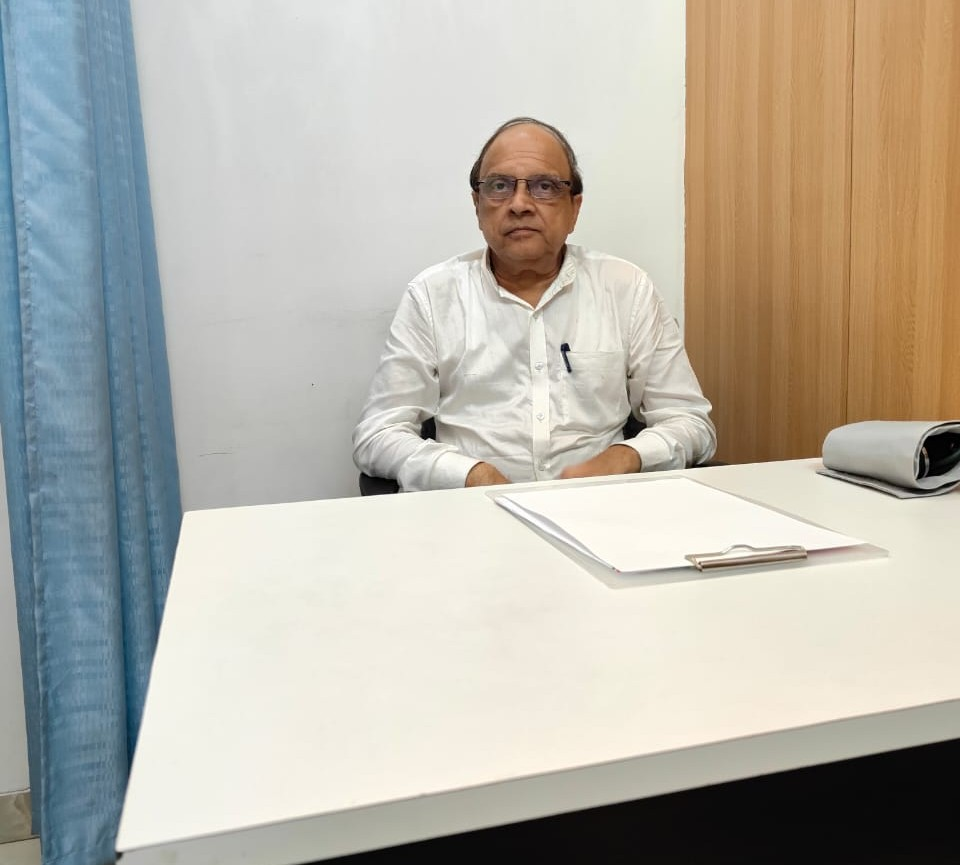
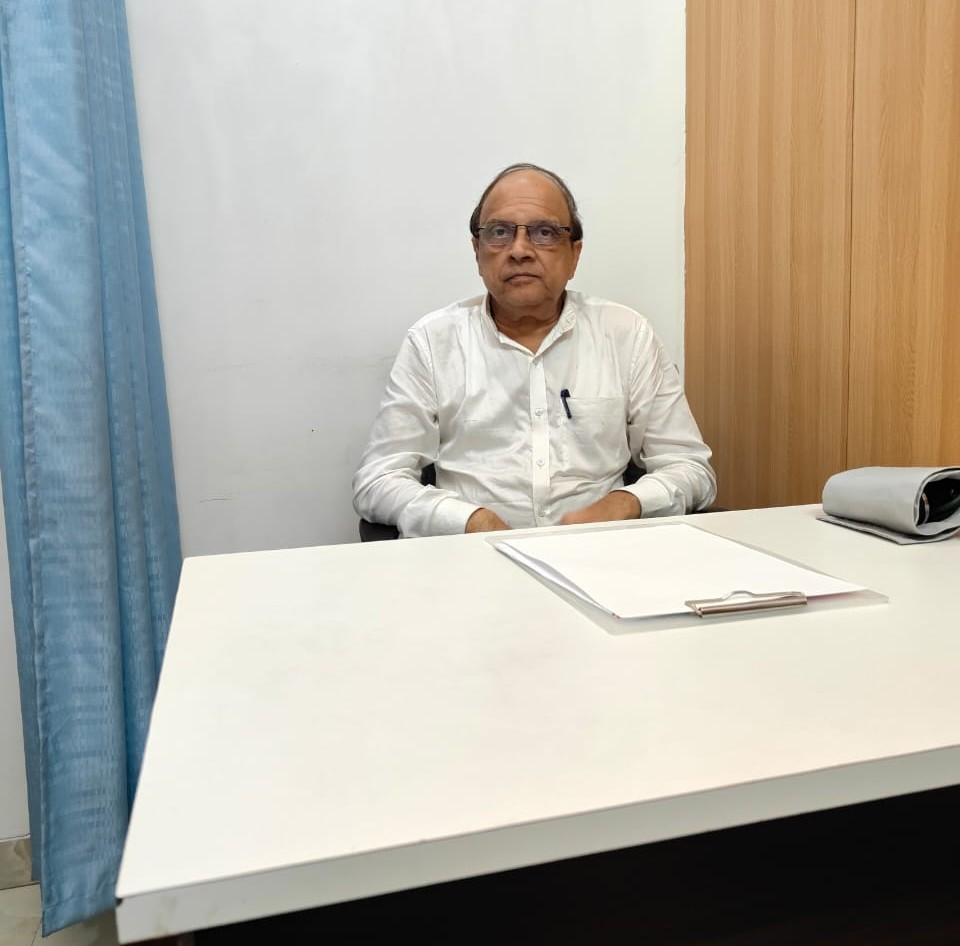
update pics for drs

diff --git a/index.html b/index.html
@@ -129,7 +129,7 @@
 
         <div class="section-title">
           <h2>About Us</h2>
-          <p>PR Diagnostics and Polyclinic was started by Dr. Anand Agarwal MBBS, Ex PGI Chandigarh in September 2021 and its present location was inaugurated on 11th May 2022. In his more than 25 years of practice he saw first hand what difficulties were being faced by patients and their familes and as such he vowed to create a new breed of integrated healing and diagnostics centers with: </p>
+          <p>PR Diagnostics and Polyclinic was started by Dr. Anand Agarwal MBBS, Ex PGI Chandigarh in September 2021 and its present location  in K.B.Sarani was inaugurated on 11th May 2022. In his more than 25 years of practice he saw first hand what difficulties were being faced by patients and their familes and as such he vowed to create a new breed of integrated healing and diagnostics centers with: </p>
         </div>
 
         <div class="row">
@@ -140,6 +140,8 @@
             <ul>
               <li><i class="bi bi-check-circle"></i>Multispeciality Doctor Clinic</li>
               <p>Our in house clinic is administered by some of the best Cardiologists, Oncologists, Urologists, Nephrologists, Gynaecologists, Dermatologists, Pediatricians, Dieticians, General Physicians and General Surgeons of Kolkata. </p>
+              <li><i class="bi bi-check-circle"></i>World Class NABL accredited laboratory</li>
+              <p>All diagnostics tests are carried out at our in house NABL certified laboratory.</p>
               <li><i class="bi bi-check-circle"></i>Home Collection Service</li>
               <p>We have dedicated staff members for drawing and collecting blood and other samples from patient's homes. We make sure to equip our staff with all resources and personal protective equipment neccessary to take samples.</p>
               <li><i class="bi bi-check-circle"></i>Ambulance Service</li>
@@ -198,7 +200,7 @@
           <div class="col-lg-3 col-md-6 d-md-flex align-items-md-stretch">
             <div class="count-box">
               <i class="fas fa-award"></i>
-              <span data-purecounter-start="0" data-purecounter-end="150" data-purecounter-duration="1" class="purecounter"></span>
+              <span data-purecounter-start="0" data-purecounter-end="5" data-purecounter-duration="1" class="purecounter"></span>
               <p><h4>Certifications</h4> </p>
             </div>
           </div>
@@ -552,7 +554,7 @@
           <div class="col-lg-3 col-md-6 d-flex align-items-stretch">
             <div class="member" data-aos="fade-up" data-aos-delay="100">
               <div class="member-img">
-                <img src="" class="img-fluid" alt="">
+                <img src="assets/img/dr-mridula-purkayastha-pr-diagnostics.webp" class="img-fluid" alt="">
                 <div class="social">
                   <a href=""><i class="bi bi-twitter"></i></a>
                   <a href=""><i class="bi bi-facebook"></i></a>
@@ -561,8 +563,27 @@
                 </div>
               </div>
               <div class="member-info">
-                <h4>DR. SWARNALI PAL</h4>
+                <h4>DR. MRIDULA PURKAYASTHA</h4>
                 <span>GYNAECOLOGIST</span>
+              </div>
+            </div>
+          </div>
+
+
+          <div class="col-lg-3 col-md-6 d-flex align-items-stretch">
+            <div class="member" data-aos="fade-up" data-aos-delay="200">
+              <div class="member-img">
+                <img src="assets/img/pr-diagnostics-13.webp" class="img-fluid" alt="">
+                <div class="social">
+                  <a href=""><i class="bi bi-twitter"></i></a>
+                  <a href=""><i class="bi bi-facebook"></i></a>
+                  <a href=""><i class="bi bi-instagram"></i></a>
+                  <a href=""><i class="bi bi-linkedin"></i></a>
+                </div>
+              </div>
+              <div class="member-info">
+                <h4>DR. ANAND AGARWAL</h4>
+                <span>General Medicine</span>
               </div>
             </div>
           </div>
@@ -570,7 +591,7 @@
           <div class="col-lg-3 col-md-6 d-flex align-items-stretch">
             <div class="member" data-aos="fade-up" data-aos-delay="200">
               <div class="member-img">
-                <img src="" class="img-fluid" alt="">
+                <img src="assets/img/dr-rakesh-jhalani-pr-diagnostics.webp" class="img-fluid" alt="">
                 <div class="social">
                   <a href=""><i class="bi bi-twitter"></i></a>
                   <a href=""><i class="bi bi-facebook"></i></a>
@@ -579,8 +600,8 @@
                 </div>
               </div>
               <div class="member-info">
-                <h4>DR. AANCHAL AGARWAL</h4>
-                <span>GYNAECOLOGIST</span>
+                <h4>DR. RAKESH JHALANI</h4>
+                <span>Orthopedist</span>
               </div>
             </div>
           </div>
@@ -588,7 +609,7 @@
           <div class="col-lg-3 col-md-6 d-flex align-items-stretch">
             <div class="member" data-aos="fade-up" data-aos-delay="300">
               <div class="member-img">
-                <img src="" class="img-fluid" alt="">
+                <img src="assets/img/dr-ankit-goel-pr-diagnostics.webp" class="img-fluid" alt="">
                 <div class="social">
                   <a href=""><i class="bi bi-twitter"></i></a>
                   <a href=""><i class="bi bi-facebook"></i></a>
@@ -597,7 +618,7 @@
                 </div>
               </div>
               <div class="member-info">
-                <h4>DR. ANKIT GOYAL</h4>
+                <h4>DR. ANKIT GOEL</h4>
                 <span>PAEDIATRICIAN</span>
               </div>
             </div>
@@ -606,7 +627,7 @@
           <div class="col-lg-3 col-md-6 d-flex align-items-stretch">
             <div class="member" data-aos="fade-up" data-aos-delay="400">
               <div class="member-img">
-                <img src="" class="img-fluid" alt="">
+                <img src="assets/img/dr-baisali-sarkar-pr-diagnostics.webp" class="img-fluid" alt="">
                 <div class="social">
                   <a href=""><i class="bi bi-twitter"></i></a>
                   <a href=""><i class="bi bi-facebook"></i></a>
@@ -615,11 +636,140 @@
                 </div>
               </div>
               <div class="member-info">
-                <h4>DR. MADHUMANTI SENGUPTA</h4>
-                <span>GENERAL MEDICINE</span>
+                <h4>DR. BAISALI SARKAR</h4>
+                <span>ENT SURGEON</span>
               </div>
             </div>
           </div>
+
+          <div class="col-lg-3 col-md-6 d-flex align-items-stretch">
+            <div class="member" data-aos="fade-up" data-aos-delay="400">
+              <div class="member-img">
+                <img src="assets/img/dr-kalyan-kumar-saha-pr-diagnostics.webp" class="img-fluid" alt="">
+                <div class="social">
+                  <a href=""><i class="bi bi-twitter"></i></a>
+                  <a href=""><i class="bi bi-facebook"></i></a>
+                  <a href=""><i class="bi bi-instagram"></i></a>
+                  <a href=""><i class="bi bi-linkedin"></i></a>
+                </div>
+              </div>
+              <div class="member-info">
+                <h4>DR. KALYAN KUMAR SAHA</h4>
+                <span>CARDIOLOGIST</span>
+              </div>
+            </div>
+          </div>
+
+          <div class="col-lg-3 col-md-6 d-flex align-items-stretch">
+            <div class="member" data-aos="fade-up" data-aos-delay="400">
+              <div class="member-img">
+                <img src="assets/img/dr-vivek-goel-pr-diagnostics.webp" class="img-fluid" alt="">
+                <div class="social">
+                  <a href=""><i class="bi bi-twitter"></i></a>
+                  <a href=""><i class="bi bi-facebook"></i></a>
+                  <a href=""><i class="bi bi-instagram"></i></a>
+                  <a href=""><i class="bi bi-linkedin"></i></a>
+                </div>
+              </div>
+              <div class="member-info">
+                <h4>DR. VIVEK GOEL</h4>
+                <span>NEPHROLOGIST</span>
+              </div>
+            </div>
+          </div>
+
+          <div class="col-lg-3 col-md-6 d-flex align-items-stretch">
+            <div class="member" data-aos="fade-up" data-aos-delay="400">
+              <div class="member-img">
+                <img src="assets/img/dr-kingshuk-chatterjee-pr-diagnostics.webp" class="img-fluid" alt="">
+                <div class="social">
+                  <a href=""><i class="bi bi-twitter"></i></a>
+                  <a href=""><i class="bi bi-facebook"></i></a>
+                  <a href=""><i class="bi bi-instagram"></i></a>
+                  <a href=""><i class="bi bi-linkedin"></i></a>
+                </div>
+              </div>
+              <div class="member-info">
+                <h4>DR. KINGSHUK CHATTERJEE</h4>
+                <span>NEPHROLOGIST</span>
+              </div>
+            </div>
+          </div>
+
+          <div class="col-lg-3 col-md-6 d-flex align-items-stretch">
+            <div class="member" data-aos="fade-up" data-aos-delay="400">
+              <div class="member-img">
+                <img src="assets/img/dr-lalit-mushkara-pr-diagnostics.webp" class="img-fluid" alt="">
+                <div class="social">
+                  <a href=""><i class="bi bi-twitter"></i></a>
+                  <a href=""><i class="bi bi-facebook"></i></a>
+                  <a href=""><i class="bi bi-instagram"></i></a>
+                  <a href=""><i class="bi bi-linkedin"></i></a>
+                </div>
+              </div>
+              <div class="member-info">
+                <h4>DR. LALIT MUSHKARA</h4>
+                <span>DIABETOLOGIST</span>
+              </div>
+            </div>
+          </div>
+
+          <div class="col-lg-3 col-md-6 d-flex align-items-stretch">
+            <div class="member" data-aos="fade-up" data-aos-delay="400">
+              <div class="member-img">
+                <img src="assets/img/dr-sudipta-dutta-pr-diagnostics.webp" class="img-fluid" alt="">
+                <div class="social">
+                  <a href=""><i class="bi bi-twitter"></i></a>
+                  <a href=""><i class="bi bi-facebook"></i></a>
+                  <a href=""><i class="bi bi-instagram"></i></a>
+                  <a href=""><i class="bi bi-linkedin"></i></a>
+                </div>
+              </div>
+              <div class="member-info">
+                <h4>DR. SUDIPATA DUTTA</h4>
+                <span>DIABETOLOGIST</span>
+              </div>
+            </div>
+          </div>
+
+
+          <div class="col-lg-3 col-md-6 d-flex align-items-stretch">
+            <div class="member" data-aos="fade-up" data-aos-delay="400">
+              <div class="member-img">
+                <img src="assets/img/dr-sudip-kundu-pr-diagnostics.webp" class="img-fluid" alt="">
+                <div class="social">
+                  <a href=""><i class="bi bi-twitter"></i></a>
+                  <a href=""><i class="bi bi-facebook"></i></a>
+                  <a href=""><i class="bi bi-instagram"></i></a>
+                  <a href=""><i class="bi bi-linkedin"></i></a>
+                </div>
+              </div>
+              <div class="member-info">
+                <h4>DR. SUDIP KUNDU</h4>
+                <span>ORTHOPEDIST</span>
+              </div>
+            </div>
+          </div>
+
+
+          <div class="col-lg-3 col-md-6 d-flex align-items-stretch">
+            <div class="member" data-aos="fade-up" data-aos-delay="400">
+              <div class="member-img">
+                <img src="assets/img/dr-sourav-saha-pr-diagnostics.webp" class="img-fluid" alt="">
+                <div class="social">
+                  <a href=""><i class="bi bi-twitter"></i></a>
+                  <a href=""><i class="bi bi-facebook"></i></a>
+                  <a href=""><i class="bi bi-instagram"></i></a>
+                  <a href=""><i class="bi bi-linkedin"></i></a>
+                </div>
+              </div>
+              <div class="member-info">
+                <h4>DR. SOURAV SAHA</h4>
+                <span>ORTHOPEDIST</span>
+              </div>
+            </div>
+          </div>
+
 
         </div>
 
@@ -693,7 +843,7 @@
                 <div class="info-box mt-4">
                   <i class="bx bx-phone-call"></i>
                   <h3>Call Us</h3>
-                  <p>+91 7003731994<br>0334801873</p>
+                  <p>+91 7003731994<br>03348011873</p>
                 </div>
               </div>
             </div>
@@ -742,7 +892,7 @@
               <p>
                 1ST FLOOR, 12/3, SOUTH, K.B.Sarani,<br>
                 Golpark, Dum Dum, Kolkata, West Bengal 700080<br><br>
-                <strong>Phone:</strong> 7003731994 & 0334801873<br>
+                <strong>Phone:</strong> 7003731994 & 03348011873<br>
                 <strong>Email:</strong> hello@prdiagnostics.com<br>
               </p>
               <div class="social-links mt-3">
